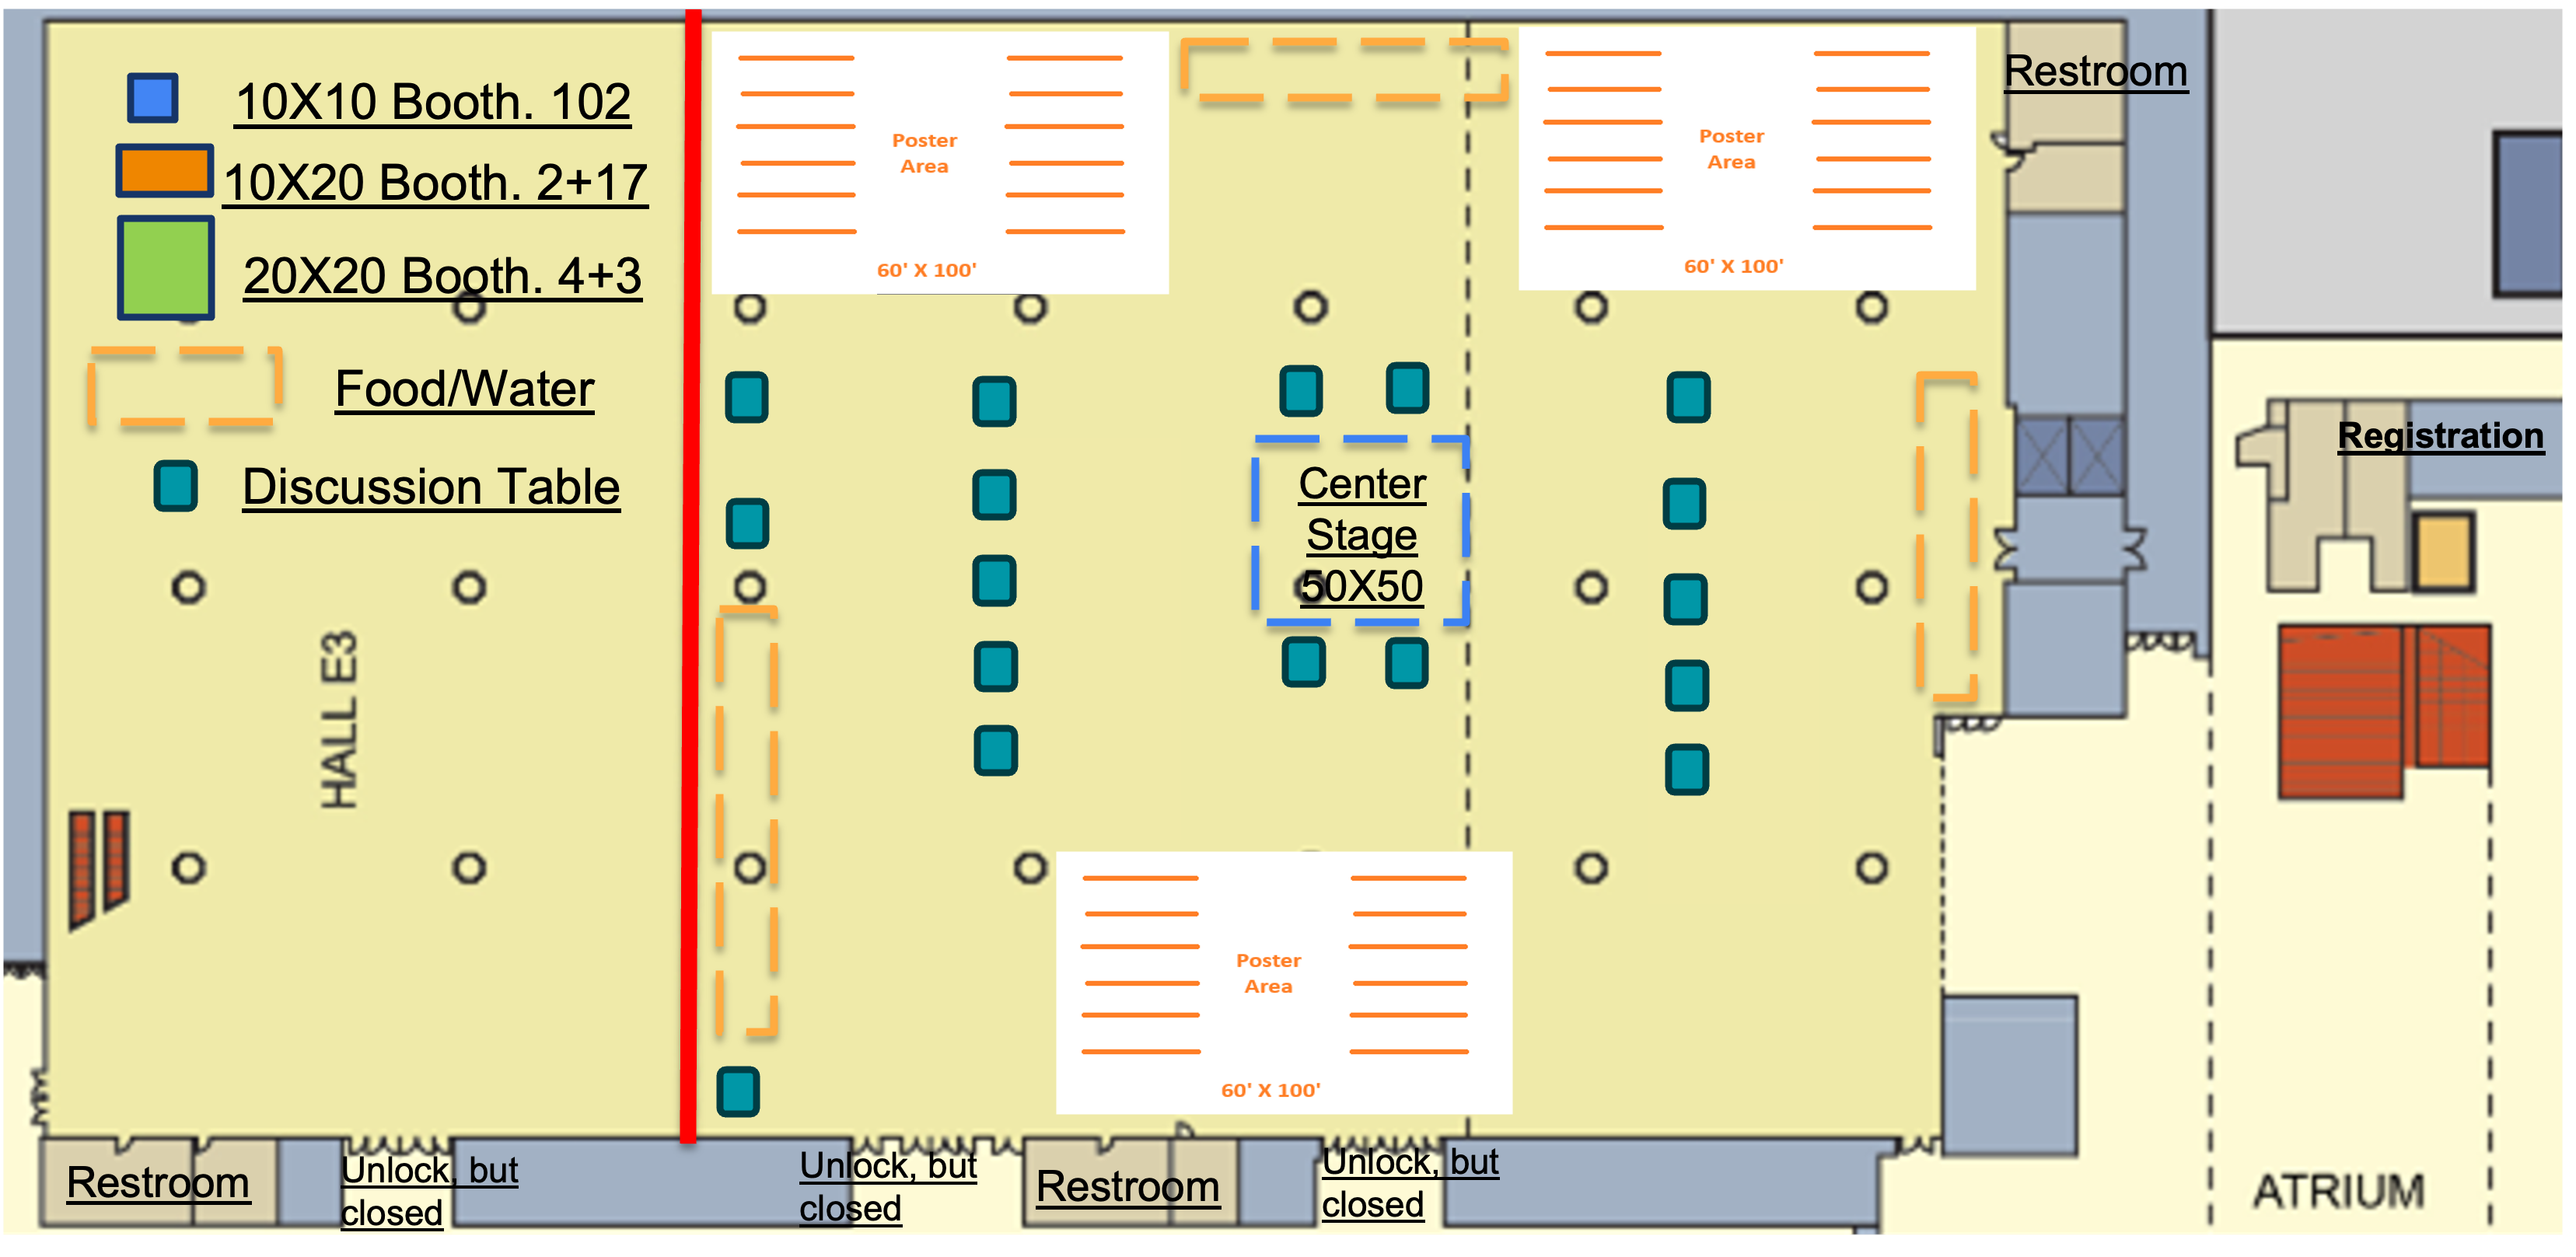
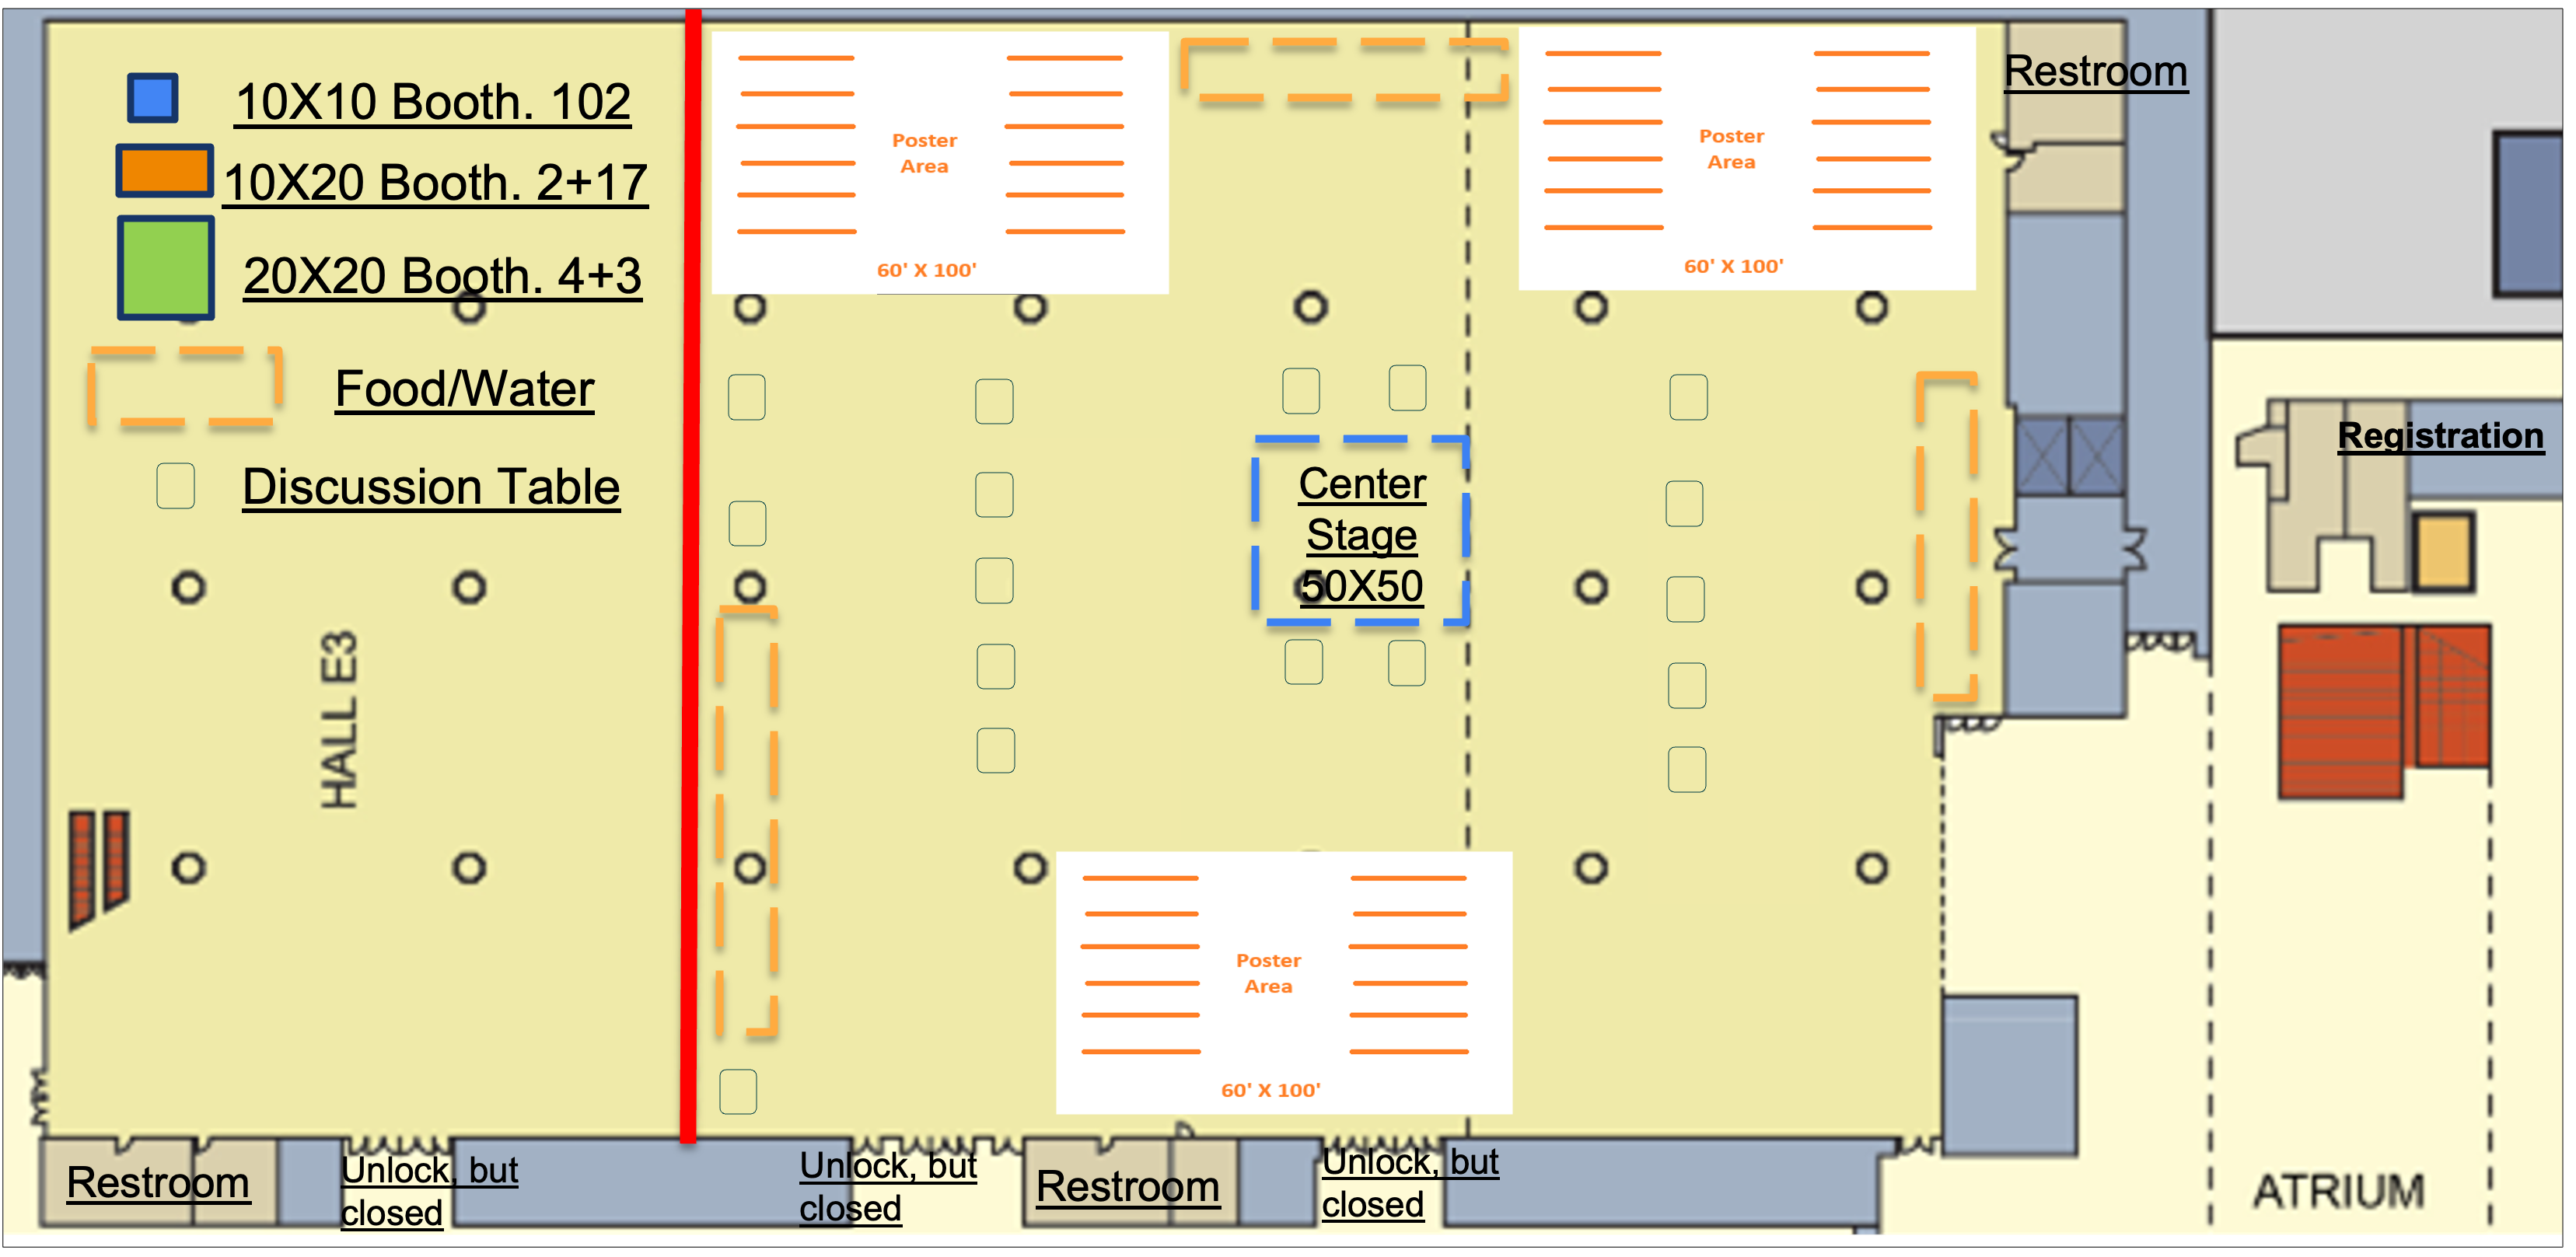
add sigmaphi and LOC member

diff --git a/src/data/exhibitors.ts b/src/data/exhibitors.ts
@@ -52,6 +52,17 @@ export const exhibitors: Exhibitor[] = [
     booth: "B20",
     featured: true
   },
+   {
+    id: "platinum-2",
+    name: "SIGMAPHI",
+    logo: "/images/logos/exhibitors/platinum/SigmaPhi.png",
+    website: "https://www.sigmaphi.com/",
+    description: "Platinum tier exhibitor",
+    category: "Industry Partner",
+    tier: "platinum",
+    booth: "B15",
+    featured: true
+  },
   // {
   //   id: "platinum-2",
   //   name: "Your Logo Here",

diff --git a/src/content/about/committee.md b/src/content/about/committee.md
@@ -189,6 +189,7 @@ The success of IPAC'27 depends on the dedicated work of our organizing committee
 * Parsons, Alex (MSU)
 * Patterer, Robert (MSU), Treasurer
 * Plastun, Alexander (MSU)
+* Popielarski, Laura (MSU)
 * Rao, Xing (MSU)
 * Swartz, Anna (MSU)
 * Wang, Ling (MSU), Editor in Chief